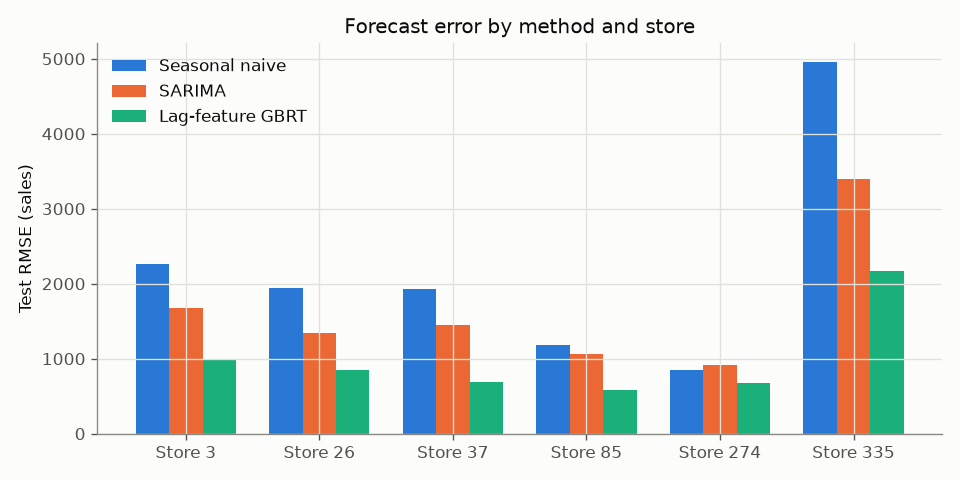
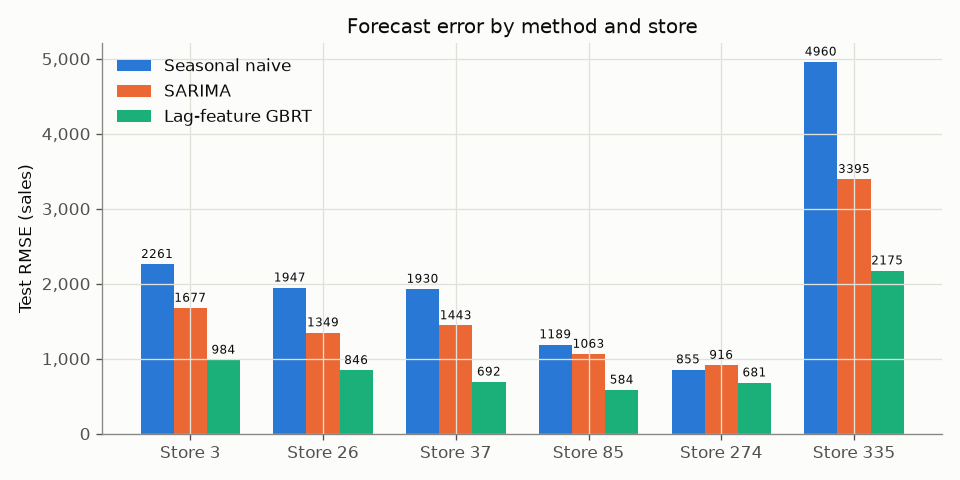
Changed and expanded figures for use in paper, as well as cleaning up some of the code in the notebooks

diff --git a/src/store_selection.py b/src/store_selection.py
@@ -44,21 +44,31 @@ class SelectionResult:
     justification: pd.DataFrame
 
 
+def filter_candidates(
+    store_df: pd.DataFrame,
+    train_df: pd.DataFrame,
+    completeness_threshold: float = COMPLETENESS_THRESHOLD,
+) -> pd.DataFrame:
+    """Stores with a usable (near-complete) sales history and a known
+    CompetitionDistance - the pool select_stores() picks 6 from."""
+    df = add_distance_tier(store_df)
+    completeness = completeness_by_store(train_df)
+    df = df.merge(
+        completeness.rename("Completeness"), left_on="Store", right_index=True
+    )
+    return df[
+        (df["Completeness"] >= completeness_threshold)
+        & df["CompetitionDistance"].notna()
+    ].copy()
+
+
 def select_stores(
     store_df: pd.DataFrame,
     train_df: pd.DataFrame,
     n: int = 6,
     completeness_threshold: float = COMPLETENESS_THRESHOLD,
 ) -> SelectionResult:
-    df = add_distance_tier(store_df)
-    completeness = completeness_by_store(train_df)
-    df = df.merge(
-        completeness.rename("Completeness"), left_on="Store", right_index=True
-    )
-    complete = df[
-        (df["Completeness"] >= completeness_threshold)
-        & df["CompetitionDistance"].notna()
-    ].copy()
+    complete = filter_candidates(store_df, train_df, completeness_threshold)
 
     complete["Cell"] = list(
         zip(complete["StoreType"], complete["Promo2"], complete["DistanceTier"])

diff --git a/src/plotting.py b/src/plotting.py
@@ -5,6 +5,8 @@ skill (references/palette.md) - swap here if the palette ever changes.
 """
 
 import matplotlib.pyplot as plt
+from matplotlib.colors import LinearSegmentedColormap
+from matplotlib.ticker import FuncFormatter
 
 CATEGORICAL = [
     "#2a78d6",  # 1 blue
@@ -31,6 +33,19 @@ METHOD_LABELS = {
     "lag_ml": "Lag-feature GBRT",
 }
 
+WEEKDAY_LABELS = {1: "Mon", 2: "Tue", 3: "Wed", 4: "Thu", 5: "Fri", 6: "Sat", 7: "Sun"}
+
+# Sequential single-hue ramp (blue, light -> dark) for magnitude/heatmap encodings.
+SEQUENTIAL_BLUE_STEPS = [
+    "#cde2fb",
+    "#9ec5f4",
+    "#6da7ec",
+    "#3987e5",
+    "#256abf",
+    "#184f95",
+    "#0d366b",
+]
+
 
 def set_paper_style() -> None:
     plt.rcParams.update(
@@ -56,3 +71,15 @@ def set_paper_style() -> None:
 
 def store_color(i: int) -> str:
     return CATEGORICAL[i % len(CATEGORICAL)]
+
+
+def sequential_cmap() -> LinearSegmentedColormap:
+    return LinearSegmentedColormap.from_list("sequential_blue", SEQUENTIAL_BLUE_STEPS)
+
+
+def comma_axis(ax, which: str = "y") -> None:
+    fmt = FuncFormatter(lambda x, _pos: f"{x:,.0f}")
+    if which in ("y", "both"):
+        ax.yaxis.set_major_formatter(fmt)
+    if which in ("x", "both"):
+        ax.xaxis.set_major_formatter(fmt)
